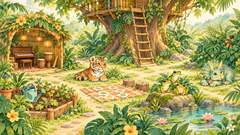
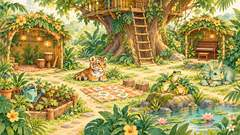
Separate landscape piano from the music hut

diff --git a/tests/menu_ui_test.py b/tests/menu_ui_test.py
@@ -90,7 +90,21 @@ with tempfile.TemporaryDirectory(prefix='menu-', dir=work) as temporary:
             desktop.game('Music Room')
             desktop.capture(f'title-{width}-music-game')
             desktop.key('Escape')
-            desktop.game('Little Piano')
-            desktop.capture(f'title-{width}-piano-game')
+            # Returning from drums keeps this campus. Select the painted
+            # piano and click its real keyboard at the orientation's own point.
+            desktop.key('Home')
+            desktop.key(str(key))
+            scene, piano, expected, screen = select_painted(desktop, 'campus', 'piano', width, height)
+            desktop.capture_actual(f'title-{width}-separate-piano-glow')
+            point = (1430, 340) if width > height else (900, 530)
+            desktop.click_actual(*screen(*point))
+            actual = desktop.capture_actual(f'title-{width}-piano-game')
+            area = (30, 120, width-30, height-100)
+            error = ImageStat.Stat(ImageChops.difference(actual.crop(area), expected.crop(area))).mean
+            assert max(error) > 20, f'Painted piano did not open its game: {error}'
+            desktop.key('1')
             desktop.key('Escape')
+            returned = desktop.capture_actual(f'title-{width}-piano-back')
+            error = ImageStat.Stat(ImageChops.difference(returned.crop(area), expected.crop(area))).mean
+            assert max(error) < 12, f'Piano Back did not return to the same campus: {error}'
 print('local title UI test: landscape/portrait navigation, painted ladder return, combined house/ladder glow and direct book/music/piano routes passed')

diff --git a/tests/title_scenes_test.py b/tests/title_scenes_test.py
@@ -46,6 +46,21 @@ class TitleVariants(unittest.TestCase):
         self.assertEqual(routes['music-hut'], 'game:Music Room')
         self.assertEqual(routes['piano'], 'game:Little Piano')
 
+    def test_separate_music_and_piano_entrances(self):
+        _, scenes, _, _ = title.Load()
+        for name in ('campus', 'campus-portrait'):
+            with self.subTest(scene=name):
+                scene = next(s for s in scenes if s['name'] == name)
+                hotspots = {h['id']: h for h in scene['hotspots']}
+                hut, piano = hotspots['music-hut'], hotspots['piano']
+                self.assertEqual(hut['target'], 'game:Music Room')
+                self.assertEqual(piano['target'], 'game:Little Piano')
+                # Portrait's two separate painted entrances must remain
+                # separate in landscape too, rather than overlapping targets.
+                self.assertLess(max(x for x, y in hut['polygon']),
+                                min(x for x, y in piano['polygon']))
+                self.assertEqual(hotspots['ladder']['target'], 'scene:treehouse')
+
     def test_distinct_variant_dimensions_and_parents(self):
         data, scenes, parents, hotspots = self.load(self.fixture())
         base_count = len(data['scenes'])
